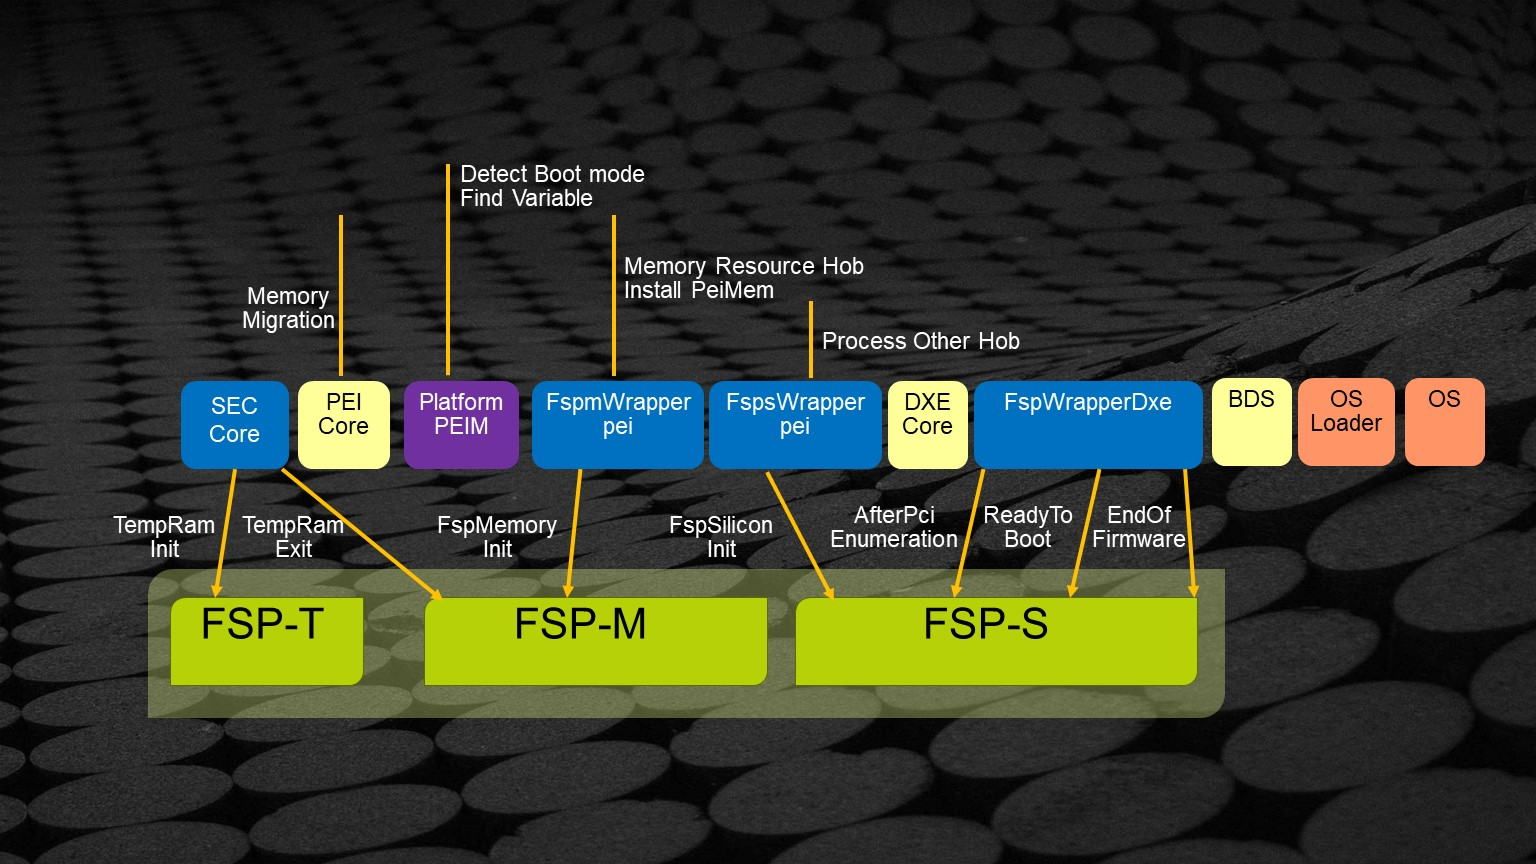
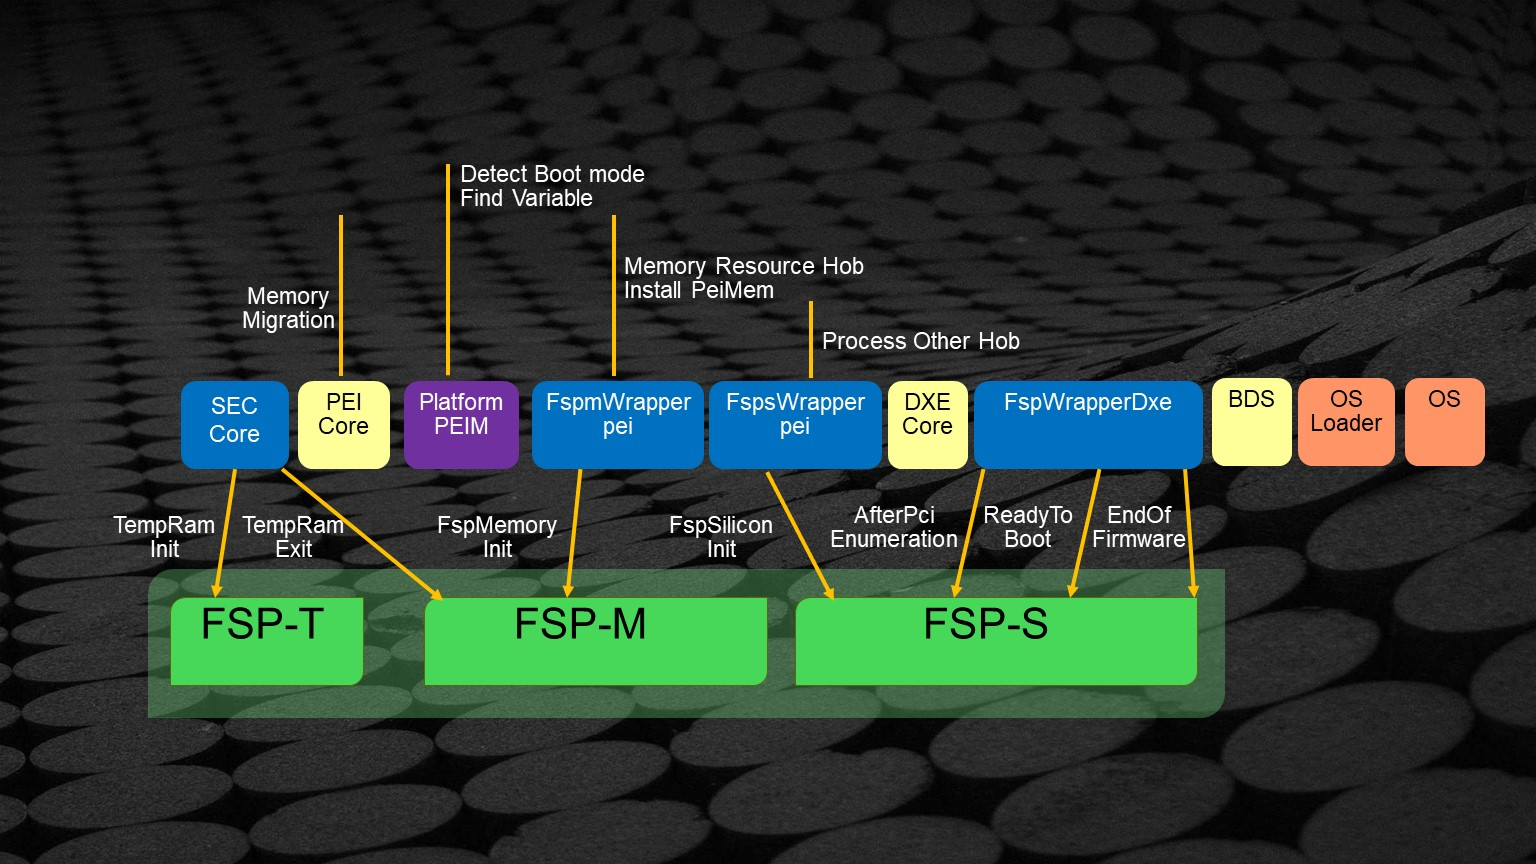
Signed-off-by: Laurie0131 <laurie.jarlstrom@intel.com>

Changed region(s): [[0.0938, 0.6562, 0.8125, 0.8438]]

diff --git a/PITCHME.md b/PITCHME.md
@@ -1070,7 +1070,7 @@ Between the soft feature freeze and the hard feature freeze, previously reviewe
 </ul>
 
 
----?image=/assets/images/slides/Slide50_1.JPG
+---?image=/assets/images/slides/Slide52.JPG
 @title[FSP detail 1]
 <p align="right" style="line-height:50%"><span style="font-size:0.8em"><b>Intel® FSP V2.0 Boot Flow</b><br> </span><span style="font-size:0.5em"> Using Intel® FSP w/ EDK II: <a href="https://firmware.intel.com/sites/default/files/A_Tour_Beyond_BIOS_Using_the_Intel_Firmware_Support_Package_with_the_EFI_Developer_Kit_II_(FSP2.0).pdf "> PDF</a>
 <br></span> </p>
